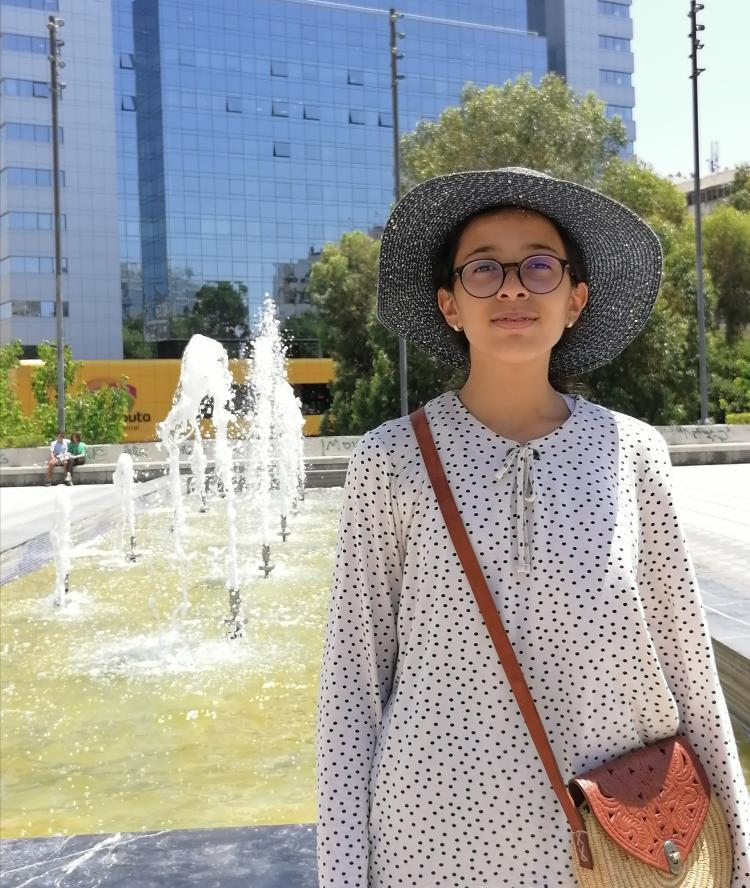
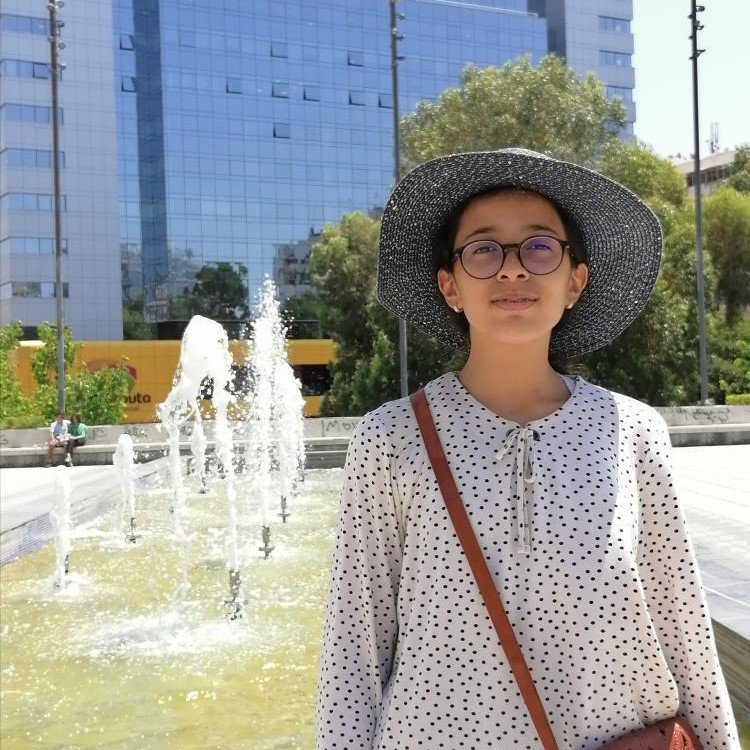
copped profile pics to a consistent ratio

diff --git a/about.html b/about.html
@@ -27,21 +27,21 @@
 
 			<h1 style="float: none;">Kiera Hutton</h1>
 			<div class="image-quote-group">
-				<img class="profile-pic" src="./images/KieraHutton.jpeg" 
-					alt="Kiera Hutton"/>
+				<img class="profile-pic" src="./images/KieraHutton.jpeg" alt="Kiera Hutton"/>
 			</div>
 
-			<h2 style="float: none;">Damian Oportus</h2>
+			<h2 style="float: none;">Damian "no twitter account" Oportus</h2>
 			<div class="image-quote-group">
 				<img class="profile-pic" src="./images/Damian.png"/>
-				<p style="font-size: 20;">Damian was definetly the guy to remind the teacher about the homework due when they forgot.</p>
-				<p style="font-size: 20; text-align: right;">-MapleBaguette</p>
+				<p>Damian was definetly the guy to remind the teacher about the homework due when they forgot.</p>
+				<p style="text-align: right;">-MapleBaguette</p>
 			</div>
 
 			<h2 style="float: none;">Antonin Francoeur</h2>
 			<div class="image-quote-group">
 				<img class="profile-pic" src="./images/Antonin.jpg" alt="Antonin Francoeur"/>
-				<p>Damian's evil antagonist</p>	
+				<p>Damian's evil antagonist</p>
+				<p>Edits about.html when Damian is asleep</p>
 			</div>
 
 			<h2 style="float: none;">Barry Ousmane</h2>

diff --git a/about.css b/about.css
@@ -8,4 +8,5 @@
 .image-quote-group {
     overflow: auto;
     margin: 0px 0px 40px 0px;
+    font-size: 20;
 }
